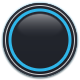
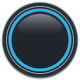
Menu: the round buttons' border is soft-edged. Its dark line fades over a pixel on each side instead of stopping hard against the background and the rim, which read as sharp on a TV (Dolphin: Home's round buttons in the default theme and Bookshelf, 16:9)

Changed region(s): [[0.025, 0.025, 0.975, 0.975], [0.6, 0.95, 0.625, 0.975], [0.375, 0.95, 0.4, 0.975]]

diff --git a/src/art/skinpaint.cpp b/src/art/skinpaint.cpp
@@ -227,8 +227,14 @@ struct Painter {
         // The rim: the card's colour shaded top to bottom, a clear edge the
         // same all round it and a white line just inside.
         c.rounded_gradient(3, 3, 74, 74, 37, shade(card, 1.0f), shade(card, 0.86f));
-        c.ring(40, 40, 37, 2.0f, Mix(edge_strong, Rgba{0, 0, 0, 255}, 0.3f));
-        c.ring(40, 40, 35.0f, 1.0f, Rgba{255, 255, 255, 200});
+        // Its edges fade over a pixel each side, so the line reads soft on
+        // a TV rather than cut out.
+        Rgba line = Mix(edge_strong, Rgba{0, 0, 0, 255}, 0.3f), fade = line;
+        fade.a = 110;
+        c.ring(40, 40, 38, 1.0f, fade);
+        c.ring(40, 40, 37, 2.0f, line);
+        c.ring(40, 40, 35, 1.0f, fade);
+        c.ring(40, 40, 34, 1.0f, Rgba{255, 255, 255, 150});
         // The accent's ring, and the face inside it, light at the top.
         c.ring(40, 40, 31.5f, over ? 4.0f : 3.2f, accent);
         c.rounded_gradient(11.5f, 11.5f, 57, 57, 28.5f, shade(card, 1.04f), shade(card, 0.90f));
